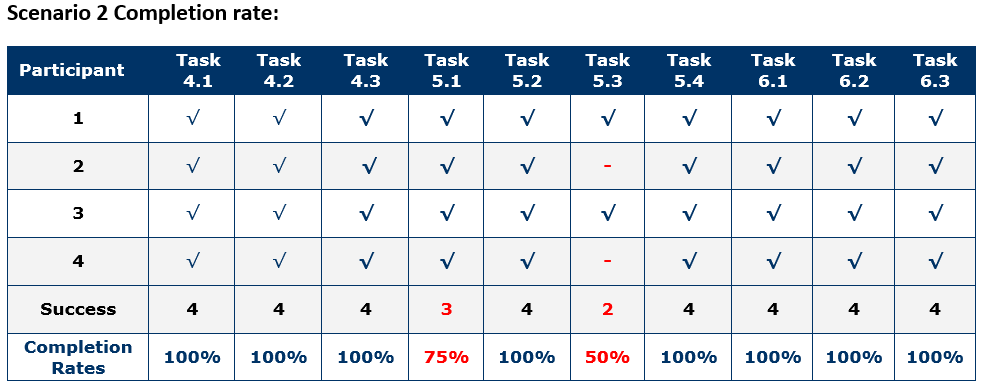
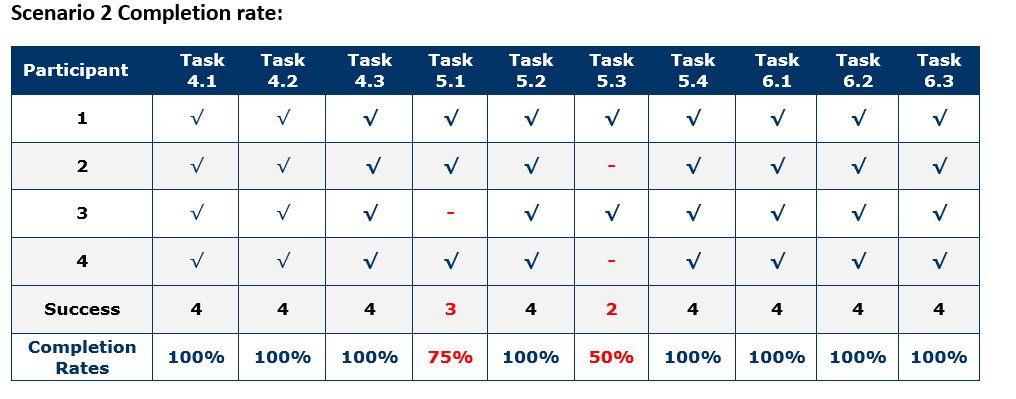
Added time on task diagrams for scenario 1 and 2, usability chapter changes and edited scenario 1 and 2 completion rate diagrams.. fuckings mye dritt

diff --git a/Report/usability.tex b/Report/usability.tex
@@ -175,7 +175,7 @@ Four participants attended the test. Typically, three to five test participants 
 This section contains the participant feedback, satisfactions ratings, task completion rates, ease or difficulty of completion ratings, time on task, errors, and recommendations for improvements.
 \subsection{Presentation of results}
 \subsubsection{Task Completion Success Rate}
-
+% Task completion tables here and explain
 % Describe the results by: explaining any task that had 100% completion rates. Follow this with the tasks that had the next highest completion rates. Then describe the tasks with the poor completion rates. Display the task completion rates in a table that shows the participant by task completion rates and the mean rate across task (see example table).]
 % Task completion rate table
 \subsubsection{Task ratings}
@@ -186,8 +186,13 @@ After the completion of each task, participants rated the ease or difficult of c
 The 5-point rating scale ranged from 1 (Strongly disagree) to 5 (Strongly agree). Agree ratings are the agree and strongly agree ratings combined with a mean agreement ratings of > 4.0 considered as the user agrees that the information was easy to find, that they could keep track of their location and predict the section to find the information.
 % Display results in a table
 \subsubsection{Time on task}
+T time on task for each participant was recorded. Some tasks were inherently more difficult to complete than others and is reflected by the average time on task.
+% TOT table here
+% Skriv så litt om de som avviker f.eks: 
+% Task 6 required participants to find brochures and took the longest time to complete (mean = 210 seconds). However, completion times ranged from 110 (approximately 2 minutes) to 465 seconds (more than 7 minutes) with most times less than 200 seconds (less than 4 minutes). 
+
 \subsubsection{Recommendations}
 % Usability test results: Skrive hvordan de svarte på spørsmålene i test-planen, hvordan det gikk. Evt problemer identifisert 
-% Questionaire resultater: Demografi info, diagrammer etc. Vi har jo ikke nok data egentlig, men vi får lage så vi har nok data tbh. 
+% Questionaire resultater:  
 % System feedback: Noe om systemet i seg selv.. hvordan det er å bruke, design etc.
 % Refleksjonsfeedback: Hvordan var det å skrive ned refleksjonene sine om erfaringene, og hvordan er det å dele de med andre? Mer diagrammer hvis nødvendig. 
